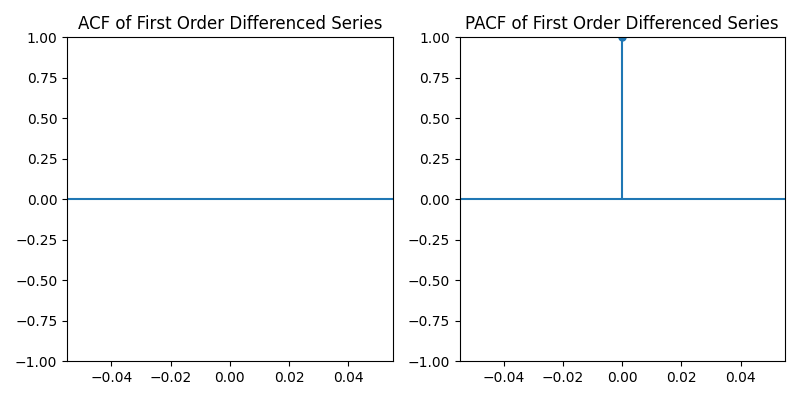
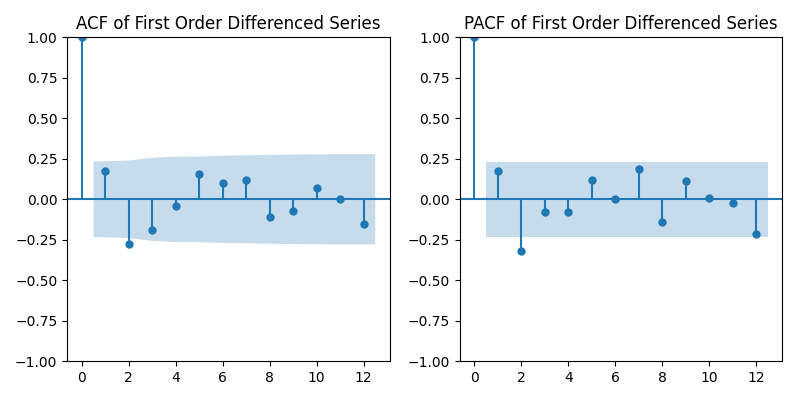
added dropna

diff --git a/arima_model.py b/arima_model.py
@@ -37,7 +37,7 @@ d = 1
 
 # Estimate Best Values for p and q based on AIC, BIC, and HQIC
 lags = 12
-diff_series = training_df['exchange_rate'].diff()
+diff_series = training_df['exchange_rate'].diff().dropna()
 fig, axes = plt.subplots(1, 2, figsize=(8, 4))
 plot_acf(diff_series, lags=lags, ax=axes[0])
 axes[0].set_title('ACF of First Order Differenced Series')
